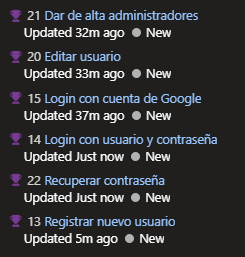
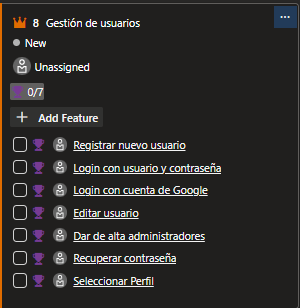
Avance en el informe

Changed region(s): [[0.0, 0.0, 1.0, 1.0], [0.5429, 0.249, 0.7143, 0.3113]]

diff --git a/iteración-1/README.md b/iteración-1/README.md
@@ -78,7 +78,7 @@ El lunes 29 de septiembre, tuvimos la primera instancia de reunión para este pr
 
 ### Minuta 2: Planning 2 (02/10/2025)
 
-El jueves 02 de octubre, continuamos con la segunda parte de la planning, finalizando. El objetivo de esta reunión fue continuar con la investigación, ambientar el backlog generando las épica y sus correspondientes features, categorizamos a cada una de ellas en orden de prioridad donde 1 es más prioritario y 4 menos prioritario. Creamos una encuesta con la cual recaudaremos información, que nos servirá a modo de guía para nuestro producto, asignamos las tareas que iremos trabajando en esta iteración.
+El jueves 02 de octubre, continuamos con la segunda parte de la planning, finalizando. El objetivo de esta reunión fue continuar con la investigación, ambientar el backlog generando las épica y sus correspondientes features, categorizamos a cada una de ellas en orden de prioridad donde 1 es más prioritario y 4 menos prioritario. Creamos una encuesta con la cual recaudaremos información, que nos servirá a modo de guía para nuestro producto, asignamos las tareas que iremos trabajando en esta iteración. Se definio la herramienta de Clockify para el conteo de las horas de trabajo.
 La reunión duró un total de 3 horas y culminamos que nos juntaremos en la próxima reunión para compartir avances de lo asignado.
 
 
@@ -175,14 +175,9 @@ El Sábado 04 de octubre, realizamos la primer daily con el objetivo coordinar e
 
 ![Imagen](Reuniones/Daily1.PNG "Daily 1")
 
-### Artefactos principales
+### Minuta 4: Daily 2 (06/10/2025)
 
-- Minuta de daily scrum describiendo la coordinación del trabajo de cada integrante del equipo.
-  - ¿Que logramos hacer?
-  - ¿Qué planificamos hacer?
-  - ¿Qué impedimentos tenemos?
-- Registro y reporte de horas de cada integrante del equipo con sus actividades principales.
-- Seguimiento visual de la iteración con burndown y/o burnup charts.
+### Minuta 5: Daily 3 (08/10/2025)
 
 ## Inspección y adaptación del proceso
 
@@ -214,7 +209,7 @@ A partir de los resultados obtenidos, determinamos que nuestro público objetivo
 
 Este perfil de usuario nos permitió validar la necesidad de una **aplicación de carpooling universitario** que conecte conductores y pasajeros dentro de una misma institución, promoviendo la colaboración, la eficiencia y la sostenibilidad en los traslados diarios.
 
----> En la carpeta de "Encuestas Resultados" se adjuntan unas imagenes de las respuestas de la encuesta que realizamos.
+> **Nota:** En la carpeta de "Encuestas Resultados" se adjuntan unas imagenes de las respuestas de la encuesta que realizamos.
 
 ###  Stakeholders
 
@@ -278,7 +273,128 @@ Se crearon las funcionalidades en formato “Como… Quiero… Para…”, consi
 
 ## Definición del problema/solución
 
-_[Existe un Product Backlog definido con su jerarquía de épicas e historias de usuario con sus criterios de aceptación asociados. Existe una priorización de los prototipos principales que se buscarán idear, construir y validar como parte del ciclo de descubrimiento.]_
+### ⏱ Estimación y priorización
+
+Para la estimación del esfuerzo, se definió una escala en la cual **1 Story Point equivale aproximadamente a media hora de trabajo**.  
+Como referencia base, se tomó la **tarea con ID 22**, a la cual se le asignó un valor de **7 Story Points (≈3 horas)**, considerando su complejidad y duración estimada.  
+El resto de las tareas fueron evaluadas en función de esta referencia, ajustando los puntos de historia según el nivel de esfuerzo relativo requerido.
+
+La **priorización** se realizó considerando el **valor que cada funcionalidad aporta al usuario final**, así como las **dependencias y relaciones de precedencia** entre las distintas tareas, buscando optimizar la secuencia de desarrollo y maximizar el impacto en cada iteración.
+
+### Tareas de la Iteración 1 y las estimaciones asignadas
+En base al criterio anterior estos fueron los **Story Points** asignados a cada una de las Historias de Usuarios de este sprint:
+
+- **Historia de usuario 1**: Identificación de interesados (stakeholders)
+  - 1 SP
+- **Historia de usuario 2**: Lista de funcionalidades por tipo de usuario
+  - 1 SP
+- **Historia de usuario 3**: Análisis comparativo de apps similares
+  - 4 SP
+- **Historia de usuario 4**: Identificar “viaje típico” como escenario base
+  - 2 SP
+- **Historia de usuario 5**: Definición de políticas iniciales
+  - 2 SP
+- **Historia de usuario 6**: Creación del Product Backlog inicial
+  - 6 SP
+- **Historia de usuario 7**: Definición de criterios de aceptación
+  - 2 SP
+- **Historia de usuario 8**: Creación del Story Map
+  - 2 SP
+
+### Estimacion de esfuerzo en las siguientes HU
+
+**Id:** Corresponde al identificador asignado automáticamente por **Azure Boards** para cada historia de usuario.  
+La siguiente imagen muestra los **IDs asociados** a cada historia dentro del Product Backlog:
+
+![Imagen](Features/Estimaciones.PNG "Estimaciones")
+### Story map
+
+
+
+### 🗂 Product Backlog
+
+A continuación se presenta el **Product Backlog** del proyecto, estructurado en **épicas** e **historias de usuario**, de acuerdo con los principios de la **gestión ágil**.  
+Este backlog fue desarrollado y priorizado en función del valor que cada funcionalidad aporta al usuario final y se gestiona utilizando la herramienta **Azure Boards**, lo que permite mantener trazabilidad, transparencia y control sobre el avance de cada iteración.
+
+#### 🟦 ÉPICA 1: Gestión de usuarios
+Todo lo relacionado con el registro, inicio de sesión y administración de cuentas dentro de la aplicación.
+
+| ID  | Historia de Usuario |
+|-----|----------------------|
+| HU10 | Como nuevo usuario, quiero registrarme con mi correo, nombre de usuario y contraseña para crear mi cuenta en la aplicación. |
+| HU11 | Como usuario, quiero iniciar sesión con mi nombre de usuario y contraseña para acceder a mi perfil y mis viajes. |
+| HU12 | Como usuario, quiero poder iniciar sesión con mi cuenta de Google para acceder de forma rápida y segura. |
+| HU13 | Como usuario, quiero editar mi perfil para actualizar mis datos personales y preferencias. |
+| HU09 | Como usuario, quiero seleccionar mi tipo de perfil (conductor o pasajero) para definir cómo usaré la aplicación. |
+| HU14 | Como administrador, quiero poder dar de alta a otros administradores para gestionar la comunidad. |
+| HU15 | Como usuario, quiero recuperar mi contraseña si la olvido para poder volver a ingresar a la aplicación. |
+
+![Imagen](Features/GestionUsuarios.PNG "GU")
+---
+
+#### 🟩 ÉPICA 2: Funcionalidades del conductor
+Incluye todas las acciones relacionadas con los usuarios que ofrecen viajes dentro de la plataforma.
+
+| ID  | Historia de Usuario |
+|-----|----------------------|
+| HU16 | Como conductor, quiero publicar mis viajes (origen, destino, ruta, día, horario, costo y lugares disponibles) para que otros estudiantes puedan unirse. |
+| HU18 | Como conductor, quiero editar los viajes publicados para modificar la información si hay cambios. |
+| HU19 | Como conductor, quiero cancelar un viaje publicado en caso de imprevistos o cambios de horario. |
+| HU17 | Como conductor, quiero evaluar a mis pasajeros según criterios como puntualidad y actitud para mantener la calidad de la comunidad. |
+| HU32 | Como conductor, quiero marcar el estado de mi viaje (pendiente, en curso o finalizado) para informar a los pasajeros. |
+| HU33 | Como conductor, quiero acceder a un historial de viajes realizados para consultar mis trayectos anteriores. |
+
+![Imagen](Features/FConductor.PNG "FC")
+---
+
+#### 🟧 ÉPICA 3: Funcionalidades del pasajero
+Agrupa las funcionalidades destinadas a los usuarios que buscan y reservan viajes.
+
+| ID  | Historia de Usuario |
+|-----|----------------------|
+| HU20 | Como pasajero, quiero reservar un lugar en un viaje publicado para asegurar mi traslado. |
+| HU21 | Como pasajero, quiero evaluar al conductor luego del viaje para contribuir a la reputación de la comunidad. |
+| HU22 | Como pasajero, quiero buscar viajes disponibles según zona, día y hora para encontrar la opción más conveniente. |
+| HU36 | Como pasajero, quiero cancelar mi reserva en caso de que ya no pueda realizar el viaje. |
+| HU37 | Como pasajero, quiero acceder a un historial de viajes realizados para consultar mis trayectos anteriores. |
+
+![Imagen](Features/FPasajero.PNG "FP")
+---
+
+#### 🟥 ÉPICA 4: Administración del sistema
+Incluye las funcionalidades que permiten a los administradores mantener el orden, la seguridad y la calidad de la plataforma.
+
+| ID  | Historia de Usuario |
+|-----|----------------------|
+| HU23 | Como administrador, quiero dar de baja a usuarios que incumplan las políticas de la comunidad. |
+| HU24 | Como administrador, quiero gestionar los reportes realizados por los usuarios para resolver conflictos. |
+| HU25 | Como administrador, quiero resolver discrepancias en las evaluaciones para garantizar la transparencia. |
+| HU38 | Como administrador, quiero visualizar estadísticas generales de uso para analizar el desempeño de la plataforma. |
+| HU39 | Como administrador, quiero definir las políticas iniciales de uso y comportamiento para establecer las reglas de la comunidad. |
+
+![Imagen](Features/Administracion.PNG "AS")
+---
+
+#### 🟨 ÉPICA 5: Notificaciones y alertas
+Reúne todas las notificaciones que mejoran la comunicación entre usuarios y el seguimiento de los viajes.
+
+| ID  | Historia de Usuario |
+|-----|----------------------|
+| HU28 | Como pasajero, quiero recibir un recordatorio cuando falten 15 minutos para mi viaje reservado para no llegar tarde. |
+| HU26 | Como pasajero, quiero recibir una notificación cuando el conductor esté demorado para poder reorganizarme. |
+| HU27 | Como pasajero, quiero recibir una alerta cuando un conductor cancele un viaje reservado para poder buscar otra opción. |
+| HU34 | Como conductor, quiero recibir una notificación cuando un pasajero reserve un viaje para confirmar su lugar. |
+| HU35 | Como conductor, quiero recibir una notificación cuando un pasajero cancele su reserva para mantener actualizada la disponibilidad del viaje. |
+
+![Imagen](Features/Notificaciones.PNG "NS")
+
+
+<br>
+
+> **Nota:** La asignación de historias de usuario a cada sprint se definirá durante las sesiones de **Sprint Planning**.  
+> Actualmente, todas las historias se encuentran **priorizadas en el Product Backlog** y **organizadas por épicas** dentro de **Azure Boards**, lo que permite una gestión clara y trazable del progreso del proyecto.
+
+
 
 ### Artefactos principales
 
